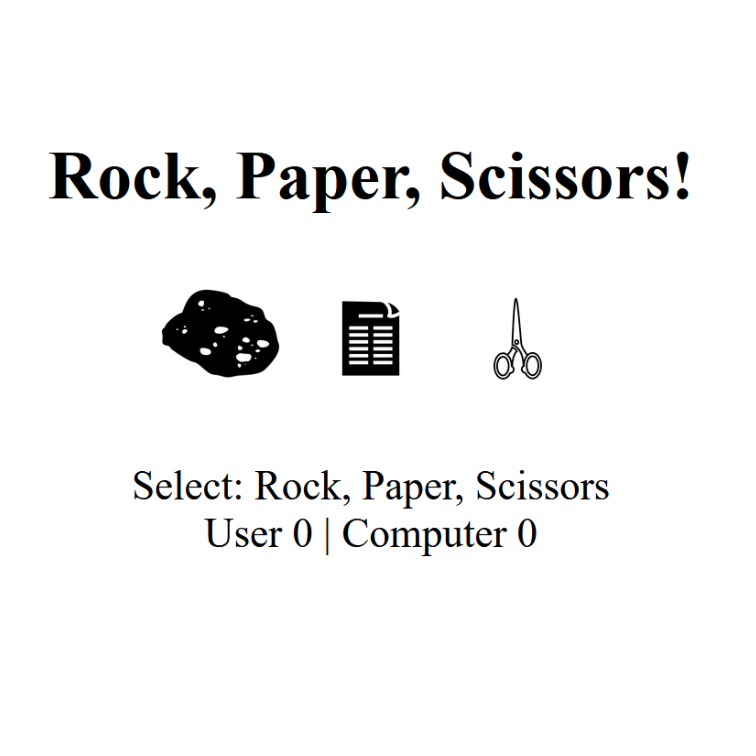
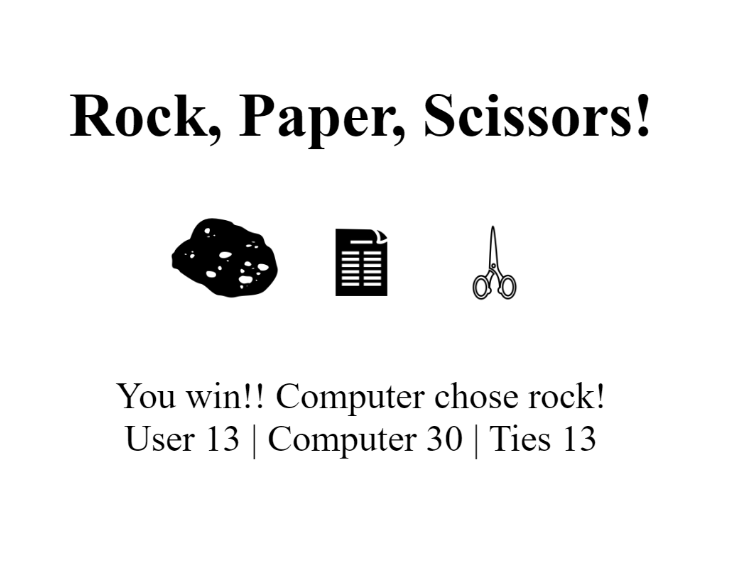
Cleaned up and refactored the code

diff --git a/index.js b/index.js
@@ -1,84 +1,67 @@
-// game initilization.  Set the scores to 0.  I had to place the "Select: Rock, Paper, scissors", to give instruction to the user, but also because
-// I didn't like how the screen jumped each time the use started the game to insert the results.  So it is also being used as a place holder.
-// Also notice that I have written this code to use functions as much as possible, even if it is only one line.  I am working to build this as a habit as I understand
-// this to be good coding practice.
-let computer_score = 0
-let user_score = 0
-document.getElementById("display_who_wins").innerHTML = "Select: Rock, Paper, Scissors";
-display_the_score();
+let computerScore = 0;
+let userScore = 0;
+let tieTotal = 0;
+const winningDisplay = document.getElementById("display_who_wins");
+const scoreDisplay = document.getElementById("current_score");
+winningDisplay.innerHTML = "Select: Rock, Paper, Scissors";
+displayScore();
 
-// My event lisetners, one for each image.  The mouse hover was best done using CSS instead of trying to use the event listener.
-// When using event listeners, the function needed has to be called without () as it automaticaly passes the event listener information over to the fucntion call.
-// Using a lambda function is possible with this format: const rock_was_selected.addEventListner("click", function(e) { .. }.
-// It is possible to pass another fucntion within the lambda function.
-const rock_was_selected = document.getElementById("rock");
-rock_was_selected.addEventListener("click", game_logic);
+const rock = document.getElementById("rock");
+rock.addEventListener("click", playGame);
 
-const paper_was_selected = document.getElementById("paper");
-paper_was_selected.addEventListener("click", game_logic);
+const paper = document.getElementById("paper");
+paper.addEventListener("click", playGame);
 
-const scissors_was_selected = document.getElementById("scissors");
-scissors_was_selected.addEventListener("click", game_logic);
+const scissors = document.getElementById("scissors");
+scissors.addEventListener("click", playGame);
 
 // And the game logic is over here.
-function game_logic(element) {
-    let computer_choice = computer_makes_a_choice()
-    image_selected = element.target.id;
-    if (image_selected == computer_choice) {
-        tie();
-    }
-    if (image_selected == "rock") {
-        if (computer_choice == "paper") {
-            user_loses();
-        } else if (computer_choice == "scissors") {
-            user_wins();
-        }
-    }
+function playGame(element) {
+    const computerChoice = getComputerChoice();
+    const userChoice = element.target.id;
+    const winner = getWinner(computerChoice, userChoice);
+    displayWinner(winner, computerChoice);
+    displayScore();
+}
 
-    if (image_selected == "paper") {
-        if (computer_choice == "scissors") {
-            user_loses();
-        } else if (computer_choice == "rock") {
-            user_wins();
-        }
-    }
+//This is the routine where the computer makes it's choice.
+function getComputerChoice() {
+    const randomNumber = Math.floor((Math.random() * 3));
+    const computerOptions = ["rock", "Paper", "scissors"];
+    return computerOptions[randomNumber];
+}
 
-    if (image_selected == "scissors") {
-        if (computer_choice == "rock") {
-            user_loses();
-        } else if (computer_choice == "paper") {
-            user_wins();
-        }
+function getWinner(computerChoice, userChoice) {
+    if (userChoice === computerChoice) return 'tie';
+
+    switch (userChoice) {
+        case "rock":
+            return computerChoice === "paper" ? "computer" : "user";
+        case "paper":
+            return computerChoice === "scissors" ? "computer" : "user";
+        case "scissors":
+            return computerChoice === "rock" ? "computer" : "user";
     }
 
-    display_the_score();
+}
 
-    function tie() {
-        document.getElementById("display_who_wins").innerHTML = "It's a tie!  No points scored.";
-    }
-
-    function user_wins() {
-        document.getElementById("display_who_wins").innerHTML = `You win!! Computer chose ${computer_choice}!`;
-        user_score += 1;
-    }
-
-    function user_loses() {
-        document.getElementById("display_who_wins").innerHTML = `You lose!! Computer chose ${computer_choice}!`;
-        computer_score += 1;
-    }
-
-    //This is the routine where the computer makes it's choice.
-    function computer_makes_a_choice() {
-        generate_random_number = Math.floor((Math.random() * 3) + 1);
-        if (generate_random_number == 1) {
-            return "rock";
-        } else if (generate_random_number == 2) {
-            return "paper";
-        } else if (generate_random_number == 3) {
-            return "scissors";
-        }
+function displayWinner(winner, computerChoice) {
+    switch (winner) {
+        case "tie":
+            winningDisplay.innerHTML = "It's a tie!  No points scored.";
+            tieTotal += 1;
+            break;
+        case "computer":
+            winningDisplay.innerHTML = `You win!! Computer chose ${computerChoice}!`;
+            userScore += 1;
+            break;
+        case "user":
+            winningDisplay.innerHTML = `You lose!! Computer chose ${computerChoice}!`;
+            computerScore += 1;
+            break;
     }
 }
-function display_the_score() {
-    document.getElementById("current_score").innerHTML = `User ${user_score} | Computer ${computer_score}`;
+
+function displayScore() {
+    scoreDisplay.innerHTML = `User ${userScore} | Computer ${computerScore} | Ties ${tieTotal}`;
 }
